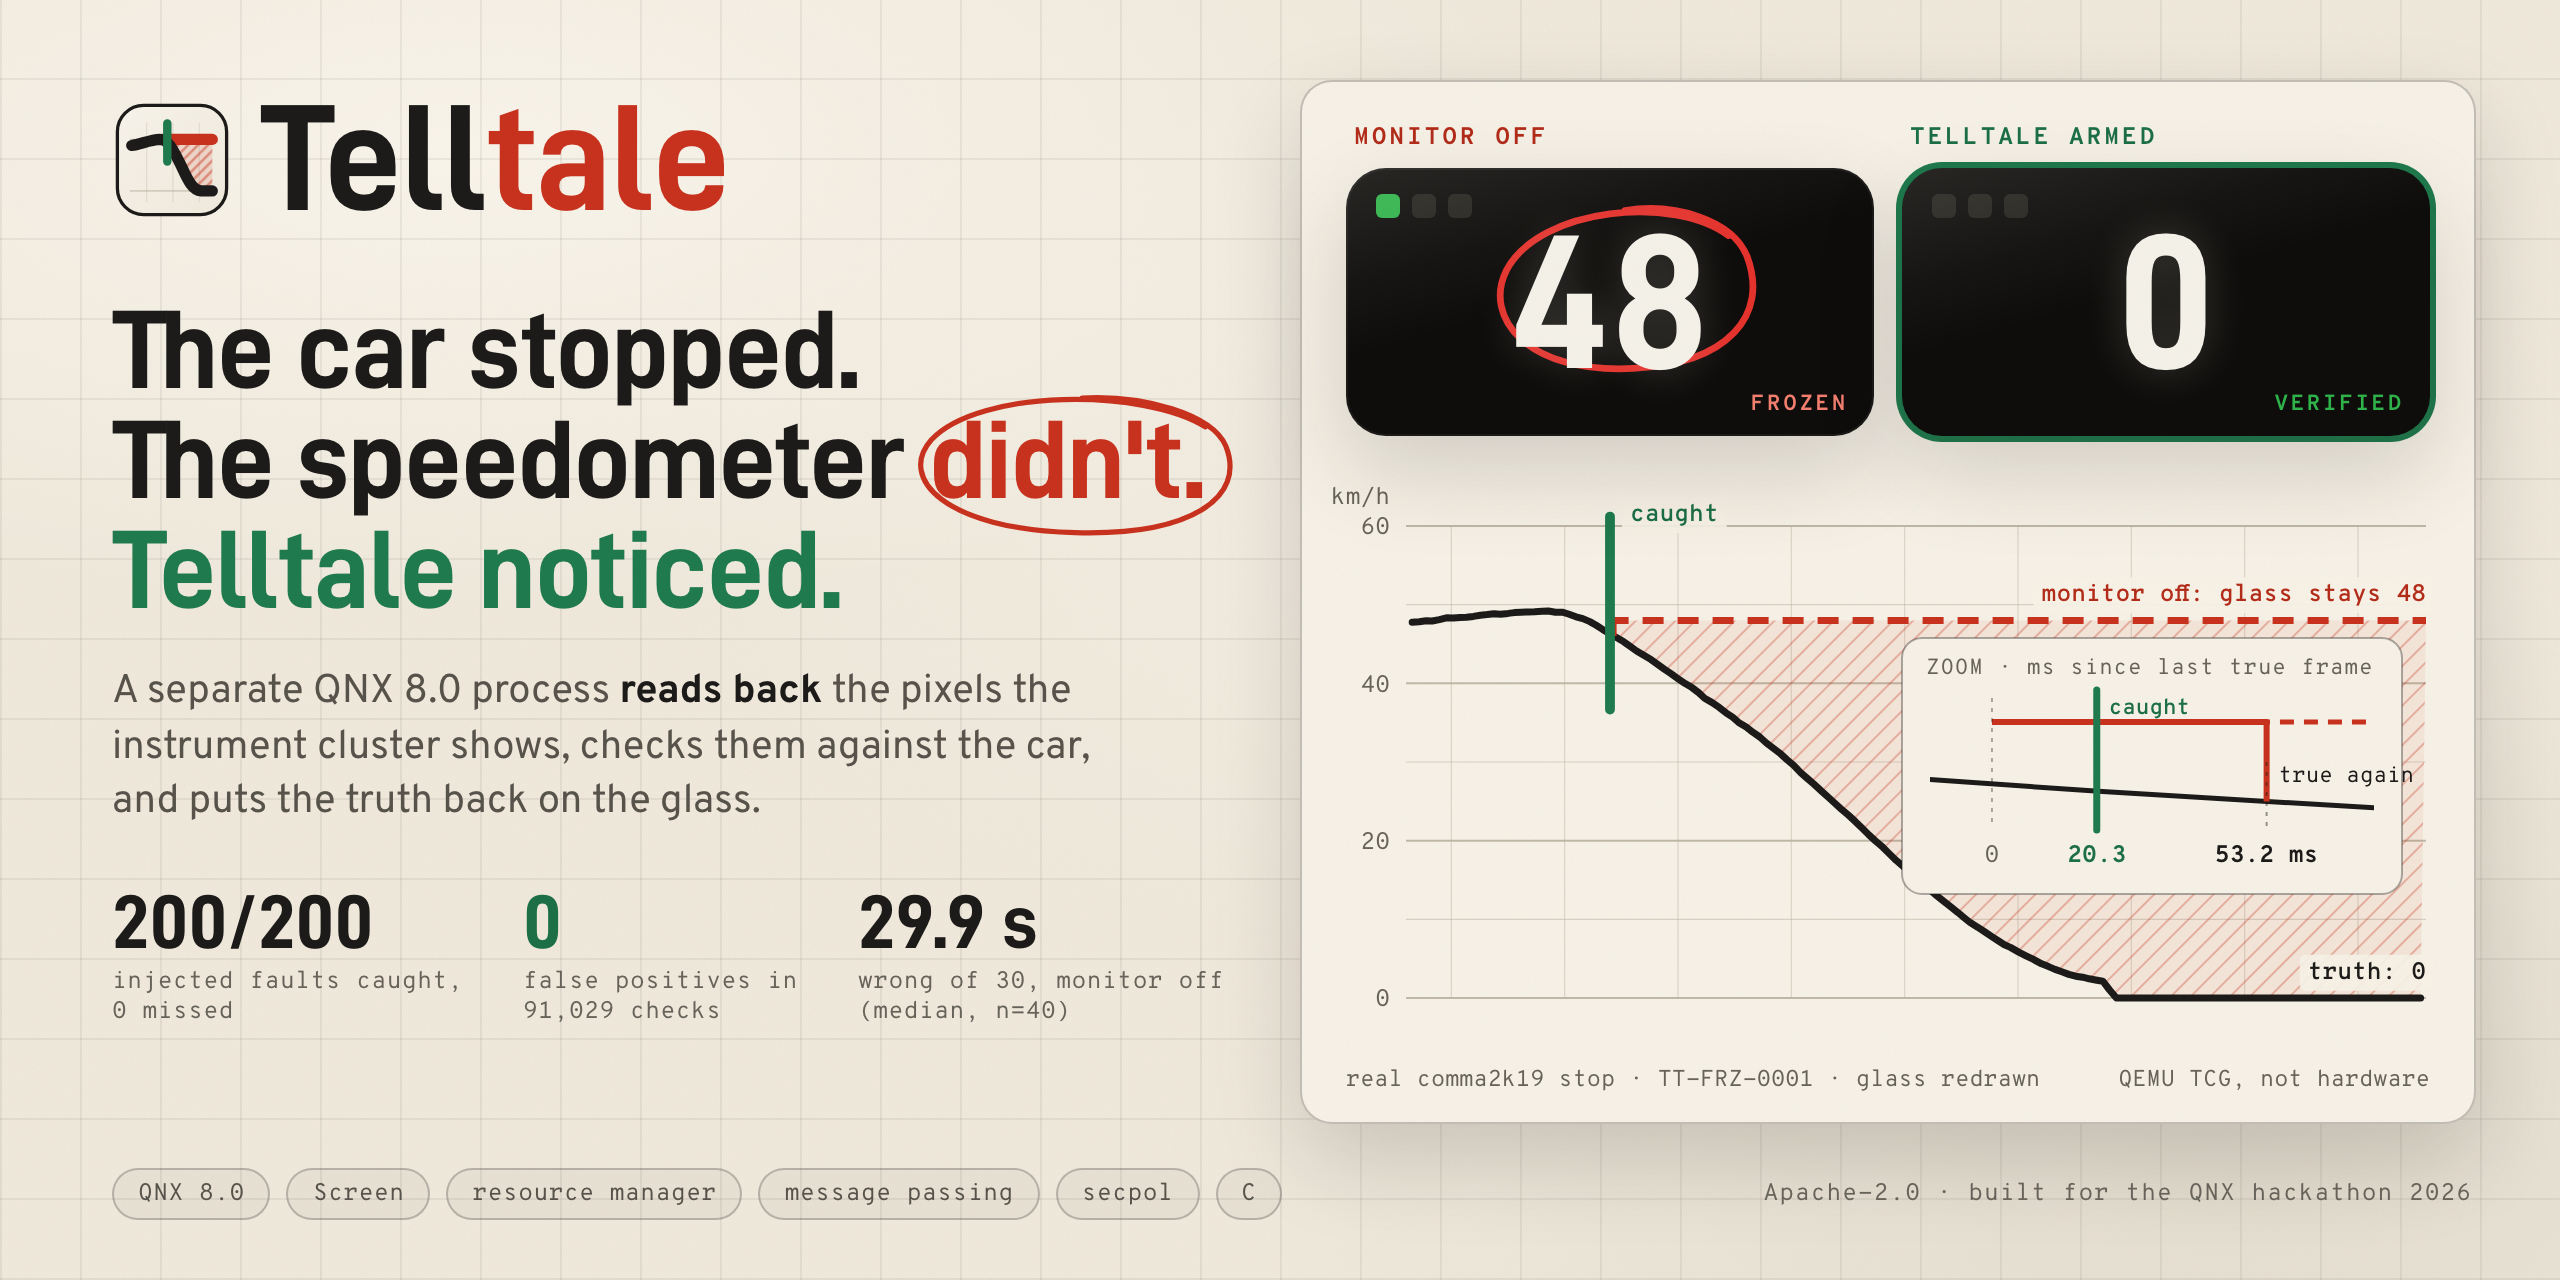
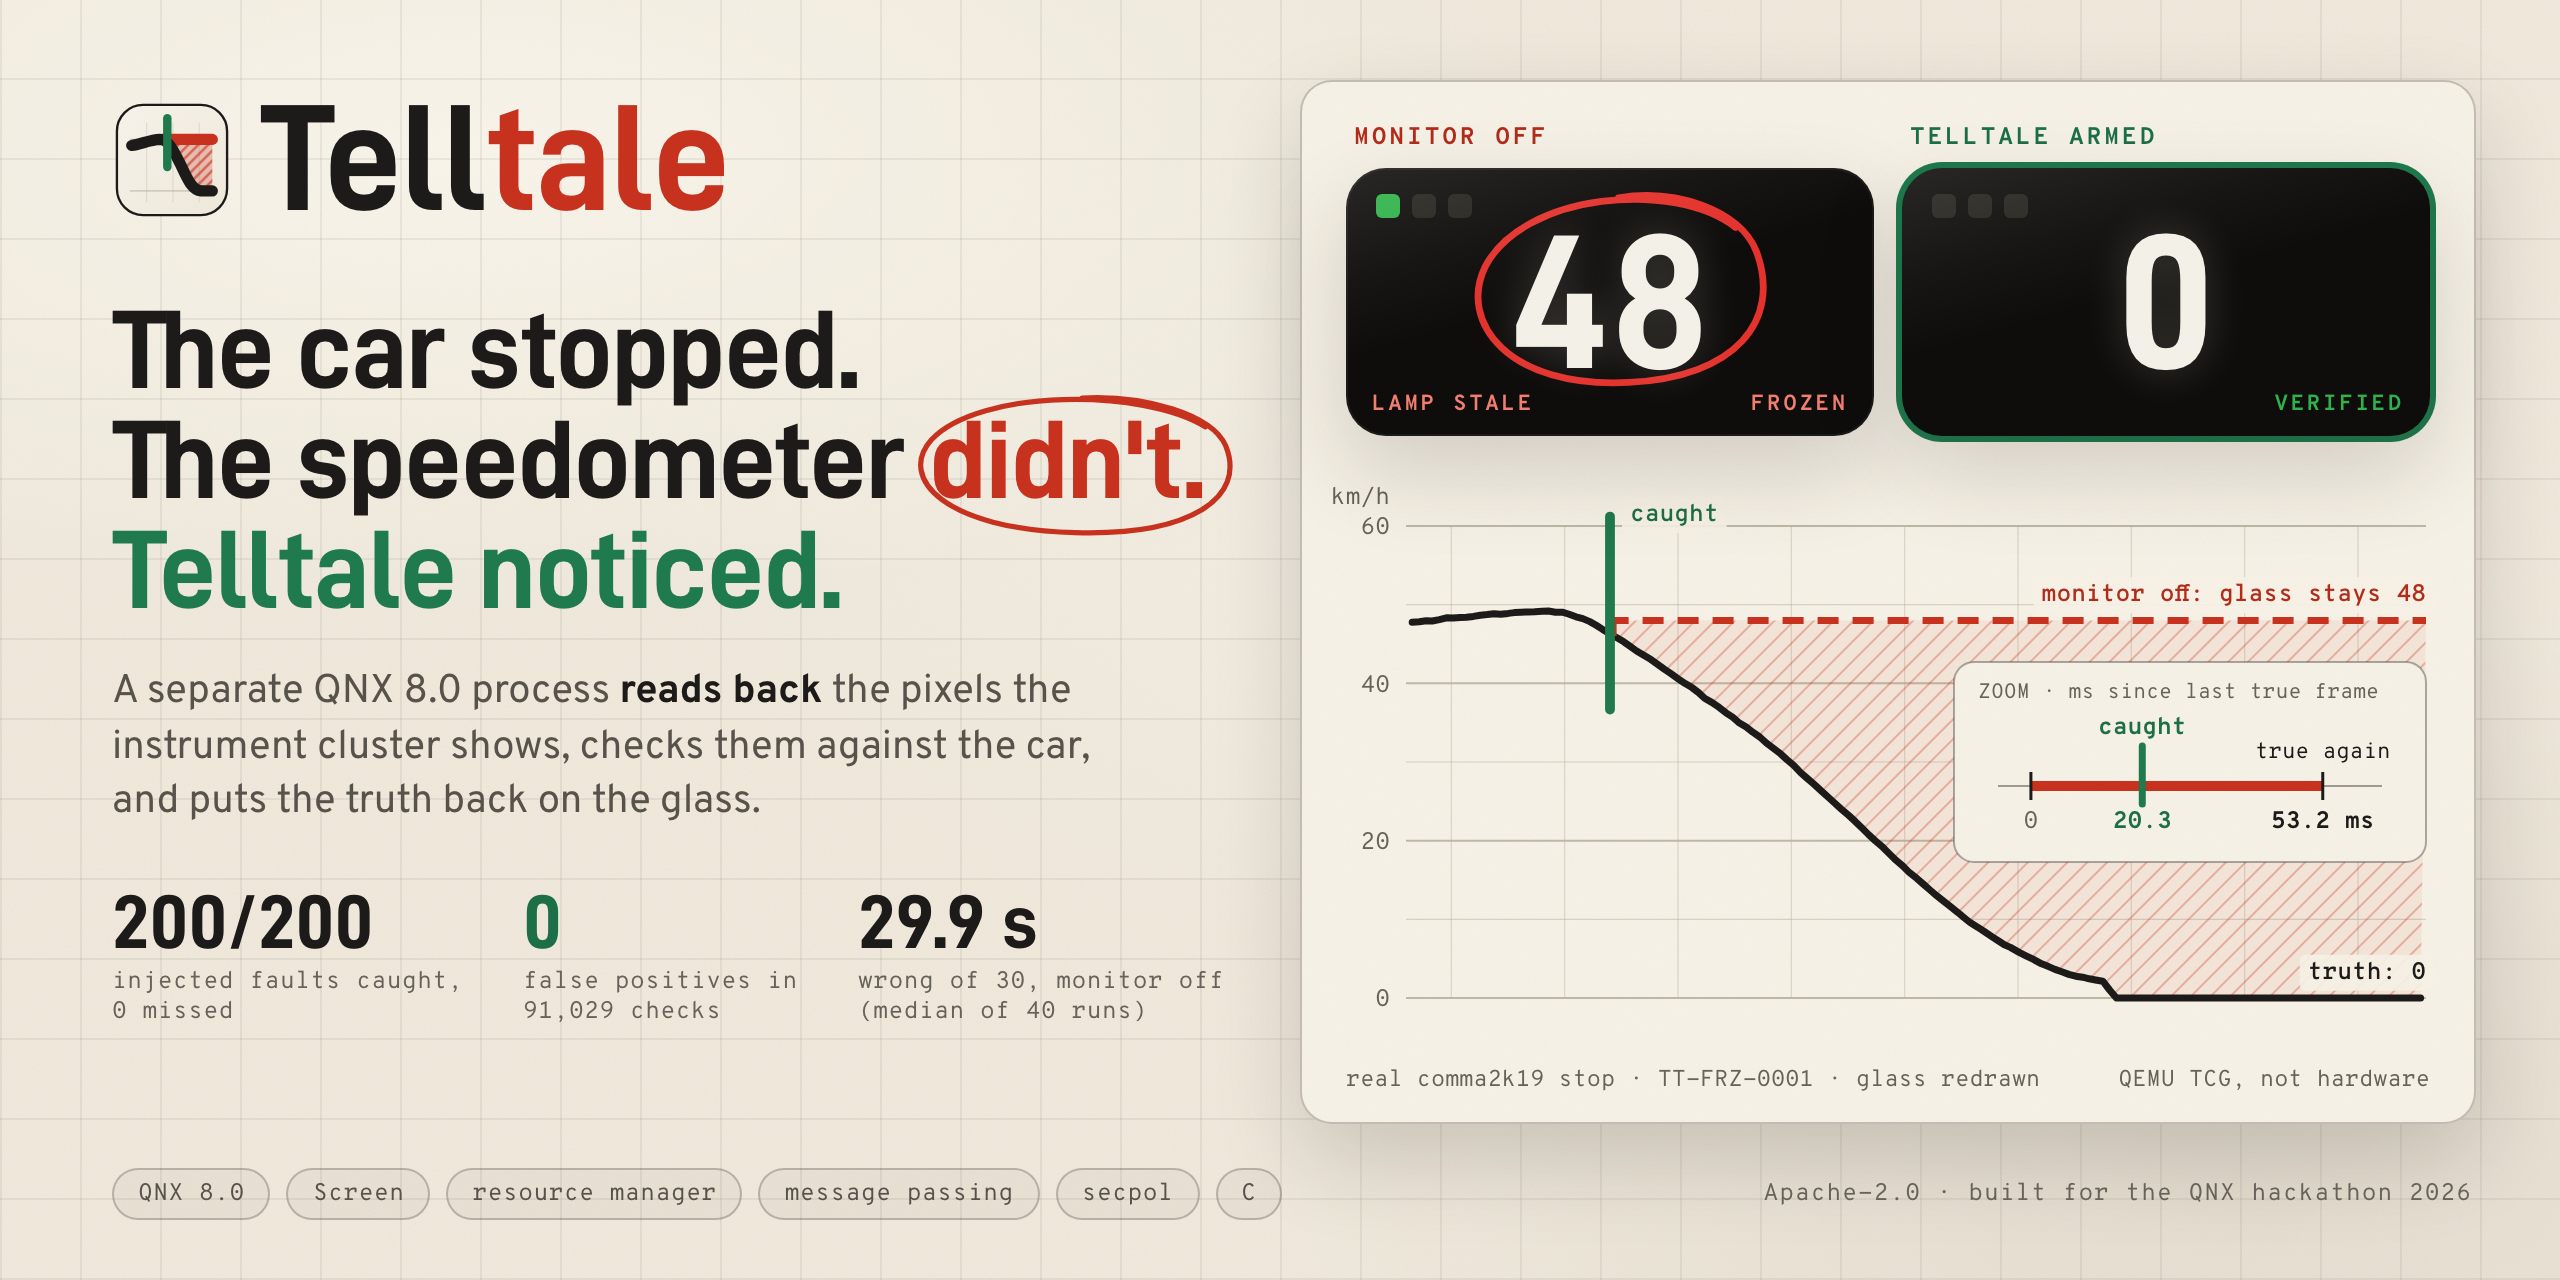
readme: hero honours prefers-reduced-motion; labels sized for the README column
The animated hero is SMIL, which a CSS reduced-motion rule cannot stop,
so the README embeds it in a <picture> whose reduced-motion source is the
static hero. In the hero: labels are 12 px or larger at native size, the
29.9 s ablation figure moves out of the 7 s chart, 'didn't.' turns red at
the freeze and 'true value back in 53.2 ms' appears with VERIFIED, and the
frozen glass marks its lamp as stale (TT-FRZ-0001 shows lamp 0x01, truth
0x00). The static hero's zoom becomes a 0 / 20.3 / 53.2 ms ruler.

diff --git a/README.md b/README.md
@@ -1,5 +1,8 @@
 <p align="center">
-  <img src="docs/assets/readme-hero-animated.svg" alt="Telltale — reads back what the cluster shows: Glass: 48 km/h, truth 0 at the stop. Without Telltale the red trace stays flat; with it, a green tick ends the lie." width="100%">
+  <picture>
+    <source media="(prefers-reduced-motion: reduce)" srcset="docs/assets/readme-hero.png">
+    <img src="docs/assets/readme-hero-animated.svg" alt="Telltale — reads back what the cluster shows: Glass: 48 km/h, truth 0 at the stop. Without Telltale the red trace stays flat; with it, a green tick ends the lie." width="100%">
+  </picture>
 </p>
 
 # Telltale
